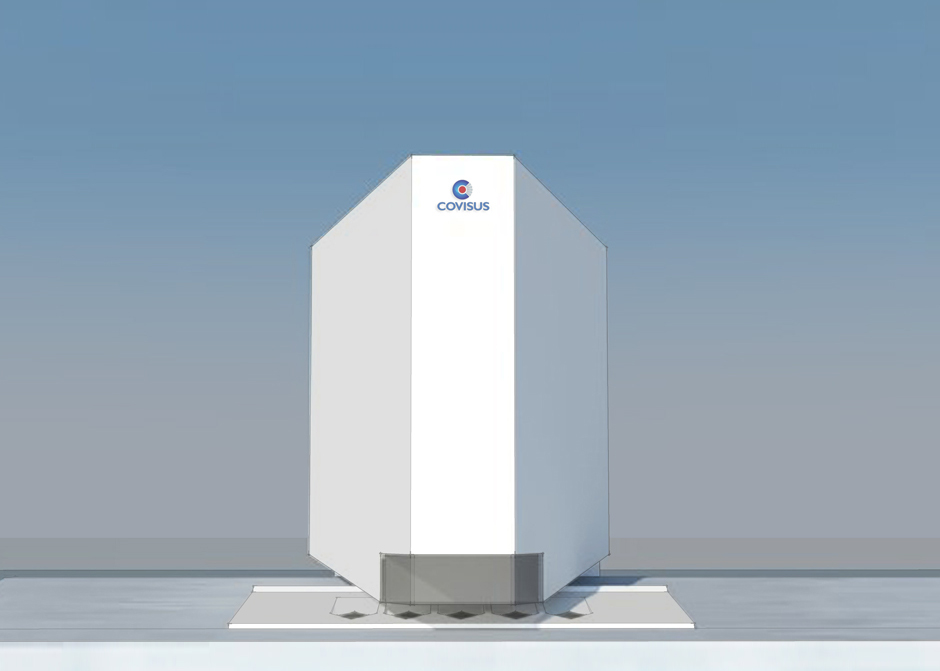
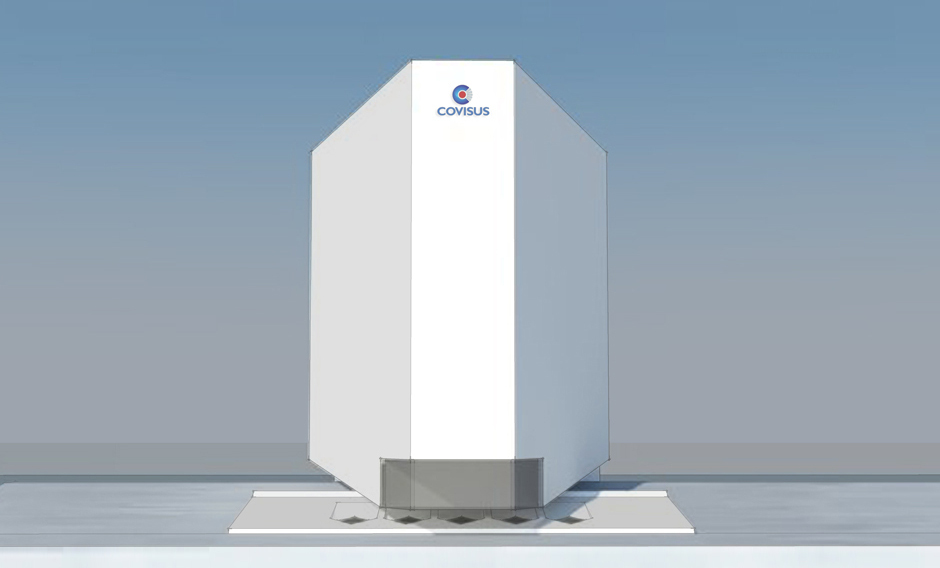
new images again

diff --git a/sass/style.sass b/sass/style.sass
@@ -16,7 +16,7 @@ div
   &.images-container
     position: relative
     width: 900px
-    height: 545px
+    height: 800px !important
     > img
       width: 900px
       display: block
@@ -315,183 +315,3 @@ body
     display: none !important
 
 /* MODAL */
-//
-// Variables
-// ----------------------
-
-@gray: #333;
-@gray-light: #aaa;
-@gray-lighter: #eee;
-@space: 40px;
-@blue: #428bca;
-@blue-dark: darken(@blue, 5%);
-
-// Mixin for transition/transform
-.translate(@x; @y) {
-  -webkit-transform: translate(@x, @y);
-      -ms-transform: translate(@x, @y); // IE9+
-          transform: translate(@x, @y);
-}
-.transition(@transition) {
-  -webkit-transition: @transition;
-          transition: @transition;
-}
-.transition-transform(@transition) {
-  -webkit-transition: -webkit-transform @transition;
-     -moz-transition: -moz-transform @transition;
-       -o-transition: -o-transform @transition;
-          transition: transform @transition;
-}
-
-//
-// Body
-// ----------------------
-
-body{
-  color: @gray;
-  font-family: 'Helvetica', arial;
-  height: 80em;
-}
-
-.wrap{
-  padding: @space;
-  text-align: center;
-}
-
-hr {
-  clear: both;
-  margin-top: @space;
-  margin-bottom: @space;
-  border: 0;
-  border-top: 1px solid @gray-light;
-}
-
-h1{
-  font-size: 30px;
-  margin-bottom: @space;
-}
-
-p{
-  margin-bottom: @space/2;
-}
-
-//
-// Btn 
-// ----------------------
-
-.btn{
-  background: @blue;
-  border: @blue-dark solid 1px;
-  border-radius: 3px;
-  color: #fff;
-  display: inline-block;
-  font-size: 14px;
-  padding: 8px 15px;
-  text-decoration: none;
-  text-align: center;
-  min-width: 60px;
-  position: relative;
-  transition: color .1s ease;
- /* top: 40em;*/
-  
-  &:hover{
-    background: @blue-dark;
-  }
-  
-  &.btn-big{
-    font-size: 18px;
-    padding: 15px 20px;
-    min-width: 100px;
-  }
-  
-}
-
-.btn-close{
-  color: @gray-light;
-  font-size: 30px;
-  text-decoration: none;
-  position: absolute; right: 5px; top: 0;
-  
-  &:hover{
-     color: darken(@gray-light, 10%);
-  }
-  
-}
-
-//
-// Modal
-// ----------------------
-
-.modal{
-  
-   
-  // This is modal bg
-  &:before{
-    content: ""; 
-    display: none;
-    background: rgba(0,0,0,.6);
-    position: fixed;
-    top: 0; left: 0; right: 0; bottom: 0; 
-    z-index: 10;
-  }
-  
-  &:target{
-     
-    // Active animate in modal
-    &:before{
-      display: block;
-    }  
-    .modal-dialog{
-      .translate(0, 0); 
-      top: 20%;  
-    }
-     
-  }
-  
-}
-
-// Modal Dialog
-// ----------------------
-
-.modal-dialog{
-  background: #fefefe;
-  border: @gray solid 1px;
-  border-radius: 5px;
-  margin-left: -200px;
-  position: fixed; 
-  left: 50%; 
-  top: -100%;  
-  z-index: 11; 
-  width: 360px;
-  .translate(0, -500%);
-  .transition-transform(~"0.3s ease-out");
-}
-
-.modal-body{
-  padding: @space/2;
-}
-
-.modal-header,
-.modal-footer{
-  padding: @space/4 @space/2;
-}
-
-.modal-header{
-  border-bottom: @gray-lighter solid 1px;
-  
-  h2{
-    font-size: 20px;
-  }
-  
-}
-
-.modal-footer{
-  border-top: @gray-lighter solid 1px;
-  text-align: right;
-}
-
-/*ADDED TO STOP SCROLLING TO TOP*/
-#close {
-  display: none; 
-}
-

diff --git a/index.html b/index.html
@@ -57,15 +57,16 @@
             <a href="http://www.covisus.com" target="_blank">Visit website...</a>
         </div>
 
+        <div><img src="img/web_dtekChip_2.jpg"></div>
+        <div><img src="img/web_dtekApp_3.jpg"></div> 
 
-        <div class="images-container"> 
-            <div><img src="img/design_dtek1.jpg"></div>  
-            <div><img src="img/design_dtek.jpg"></div>
-        </div>      
-
-        <div><img src="img/web_dtekApp_3.jpg"></div>
+        <div class="images-container">
+            <img class="normal" src="img/design_dtek.jpg">
+            <img class="hover" src="img/design_dtek1.jpg">
+        </div>  
+        
         <div><img src="img/design_dtek2.jpg"></div>
-         <div><img src="img/web_dtekApp1.jpg"></div> 
+        <div><img src="img/web_dtekApp1.jpg"></div> 
 
 &nbsp;<div class="galleryBreak">+</div>
         
